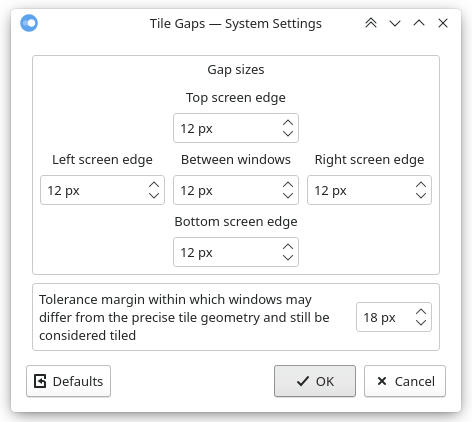
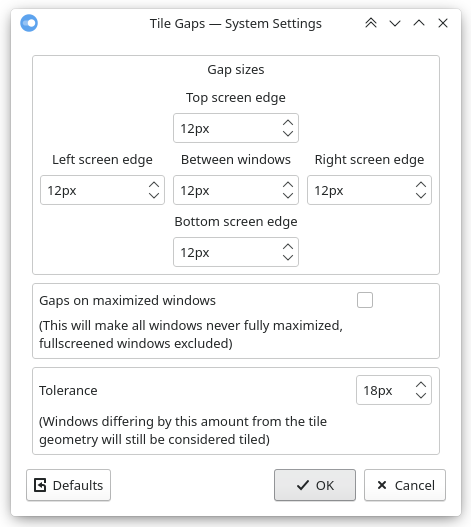
add option to gap maximized windows

diff --git a/contents/code/main.js b/contents/code/main.js
@@ -10,12 +10,13 @@ GNU General Public License v3.0
 ///////////////////////
 
 const config = {
-    gapTop:    readConfig("gapTop",    12),
-    gapLeft:   readConfig("gapLeft",   12),
-    gapMid:    readConfig("gapMid",    12),
-    gapRight:  readConfig("gapRight",  12),
-    gapBottom: readConfig("gapBottom", 12),
-    tolerance: readConfig("tolerance", 18)
+    gapTop:           readConfig("gapTop",    12),
+    gapLeft:          readConfig("gapLeft",   12),
+    gapMid:           readConfig("gapMid",    12),
+    gapRight:         readConfig("gapRight",  12),
+    gapBottom:        readConfig("gapBottom", 12),
+    includeMaximized: readConfig("includeMaximized", false),
+    tolerance:        readConfig("tolerance", 18)
 };
 
 
@@ -24,9 +25,9 @@ const config = {
 ///////////////////////
 
 debugMode = true;
-function debug(...args) {if (debugMode) {console.debug(...args);}}
+function debug(...args) {if (debugMode) console.debug(...args);}
 debug("intializing tile gaps");
-debug("tile gap sizes (t/l/r/b/m/x):", ...Object.values(config));
+debug("tile gap sizes (t/l/r/b/m/m/x):", ...Object.values(config));
 
 
 ///////////////////////
@@ -48,7 +49,18 @@ function onAdded(client) {
     client.frameGeometryChanged.connect(tileGaps);
     client.clientFinishUserMovedResized.connect(tileGaps);
     client.moveResizedChanged.connect(tileGaps);
+    client.screenChanged.connect(tileGaps);
+    client.desktopChanged.connect(tileGaps);
 }
+
+// trigger tile gap for all windows when screen geometry changes
+workspace.currentDesktopChanged.connect(tileGapsAll);
+workspace.numberScreensChanged.connect(tileGapsAll);
+workspace.screenResized.connect(tileGapsAll);
+workspace.virtualScreenSizeChanged.connect(tileGapsAll);
+workspace.virtualScreenGeometryChanged.connect(tileGapsAll);
+workspace.clientAdded.connect(function(client) {if (client.dock) tileGapsAll();});
+function tileGapsAll() {workspace.clientList().forEach(client => tileGaps(client));}
 
 
 ///////////////////////
@@ -114,7 +126,7 @@ function getGrid(client) {
 // coordinates for each tile
 function getTiles(client) {
     var grid = getGrid(client);
-    return {
+    return Object.assign({}, {
         halfLeft: {
             x: grid.left,
             y: grid.top,
@@ -205,7 +217,12 @@ function getTiles(client) {
             width: grid.halfWidth,
             height: grid.halfHeight
         }
-    };
+    }, (config.includeMaximized ? {full: {
+            x: grid.left,
+            y: grid.top,
+            width: grid.fullWidth,
+            height: grid.fullHeight
+        }} : {}));
 }
 
 // window is considered tiled iff the difference on all coordinates between the actual geometry and the expected is within the tolerated divergence margin
@@ -230,7 +247,7 @@ function tileGaps(win) {
     if (win == undefined || win == null || !win.normalWindow || win.fullscreen || win.move || win.resize) {
         return;
     }
-    debug("gaps for", win.caption);
+    debug("gaps for", win.caption, config.includeMaximized);
     debug("window geometry", ...Object.values(win.geometry));
 
     // iterate possible tile positions

diff --git a/README.md b/README.md
@@ -1,12 +1,12 @@
 # Tile Gaps
 
-Extension for KDE's window manager to add space around windows snapped to a half or quarter of the screen.
+Extension for KDE's window manager to add space around windows snapped to a whole, half or quarter of the screen.
 
 The size of the gap is configurable.
 
 ![screenshot](screenshot.png)
 
-![config](config.png)
+![config](config_.png)
 
 [view in KDE Store](https://www.pling.com/p/1619642/)
 
